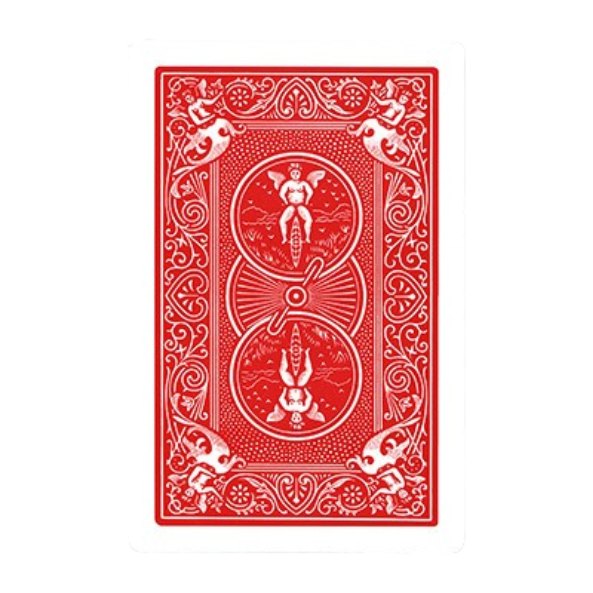
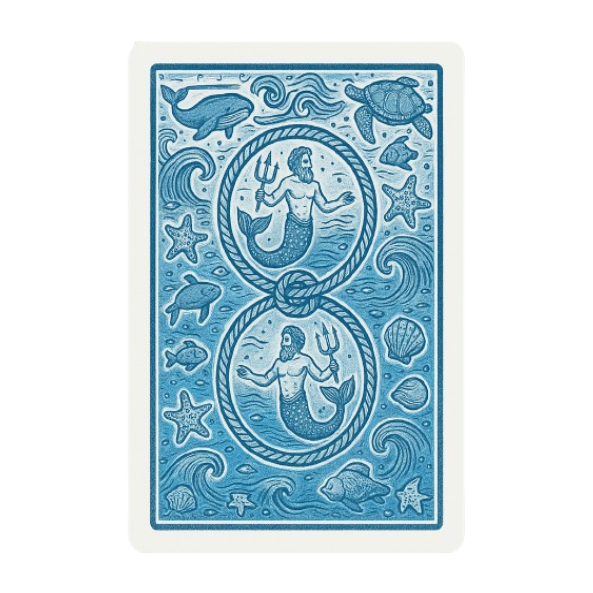
Noves imatges i traducció
Canvi de disseny de cartes, fons, logo i traducció al català d'alguns texts

diff --git a/index.js b/index.js
@@ -10,7 +10,7 @@ let games = {}; // Almacena las partidas en curso
 app.use(express.static('public'));
 
 io.on('connection', (socket) => {
-    console.log('Un jugador se ha conectado:', socket.id);
+    console.log('Un jugador s\'ha conectat:', socket.id);
 
     socket.on('joinGame', ({ gameId, playerName }) => {
         if (!games[gameId]) {
@@ -38,7 +38,7 @@ io.on('connection', (socket) => {
             }
         } else {
             games[gameId].waitingQueue.push(socket.id);
-            socket.emit('waitingForPlayers', 'Estás en espera de otro jugador para comenzar la partida.');
+            socket.emit('waitingForPlayers', 'Estàs en espera d\'un altre jugador per començar la partida.');
         }
     });
 
@@ -56,11 +56,11 @@ io.on('connection', (socket) => {
                     io.to(gameId).emit('gameResult', winner);
                 }
             } else {
-                console.log(`Jugador ${socket.id} ha intentado triar una carta però la carta no és vàlida o no existeix.`);
+                console.log(`Jugador ${socket.id} ha intentat triar una carta però la carta no és vàlida o no existeix.`);
                 socket.emit('errorMessage', 'La carta no és vàlida.');
             }
         } else {
-            console.log(`Jugador ${socket.id} ha intentado interactuar pero no está en el juego.`);
+            console.log(`Jugador ${socket.id} ha intentat interactuar però no està en el joc.`);
             socket.emit('errorMessage', 'No estàs dins la partida activa.');
         }
     });
@@ -87,7 +87,7 @@ io.on('connection', (socket) => {
     });
 
     socket.on('disconnect', () => {
-        console.log('Un jugador se ha desconectado:', socket.id);
+        console.log('Un jugador s\'ha desconectat:', socket.id);
 
         let wasInGame = false;
 
@@ -126,7 +126,7 @@ io.on('connection', (socket) => {
 });
 
 function generateDeck() {
-    const suits = ['Corazones', 'Diamantes', 'Tréboles', 'Picas'];
+    const suits = ['Cors', 'Diamants', 'Trèvols', 'Piques'];
     const values = ['2', '3', '4', '5', '6', '7', '8', '9', '10', 'J', 'Q', 'K', 'A'];
     let deck = [];
     suits.forEach(suit => {
@@ -159,5 +159,5 @@ function determineWinner(cards, names) {
 }
 
 server.listen(3000, () => {
-    console.log('Servidor escuchando en el puerto 3000');
+    console.log('Servidor escoltant en el port 3000');
 });

diff --git a/public/script.js b/public/script.js
@@ -23,7 +23,7 @@ document.addEventListener('DOMContentLoaded', () => {
             socket.emit('joinGame', { gameId, playerName });
             modal.style.display = 'none';
         } else {
-            alert('Per favor, omple tots els camps!');
+            alert('Si us plau, ompli tots els camps!');
         }
     });
 
@@ -57,7 +57,7 @@ document.addEventListener('DOMContentLoaded', () => {
             gameArea.innerHTML = `
             <div class="message-box lose">
                 <h2>No pots jugar en aquesta partida.</h2>
-                <p>Només es permeten 2 jugadors actius. Torna enrere i entra a una altra partida.</p>
+                <p>Només es permeten 2 jugadors actius. Torna enrere i entra a una altre partida.</p>
             </div>`;
             document.body.classList.add('not-in-game');
             return;

diff --git a/public/styles.css b/public/styles.css
@@ -134,9 +134,9 @@ p {
 
 /* Estilo para la carta seleccionada */
 .card.selected {
-    border: 2px solid #ffcc00;
+    border: 2px solid #f6ff71;
     /* Resaltar con borde amarillo */
-    box-shadow: 0 0 10px rgba(255, 204, 0, 0.7);
+    box-shadow: 0 0 10px #ffec9f;
     /* Agregar sombra */
 }
 
@@ -329,7 +329,7 @@ body.not-in-game h2 {
     border-radius: 25px;
     padding: 50px;
     max-width: 600px;
-    margin: 60px auto;
+    margin: 20px auto 60px auto;
     text-align: center;
     box-shadow: 0px 12px 30px rgba(0, 0, 0, 0.6);
     position: relative;

diff --git a/public/index.html b/public/index.html
@@ -10,7 +10,7 @@
 
 <body>
 
-    <h1>Carta més alta</h1>
+    <img src= "images/logo.png" width="15%">
 
     <div id="gameModal" class="modal">
         <div class="modal-content">
